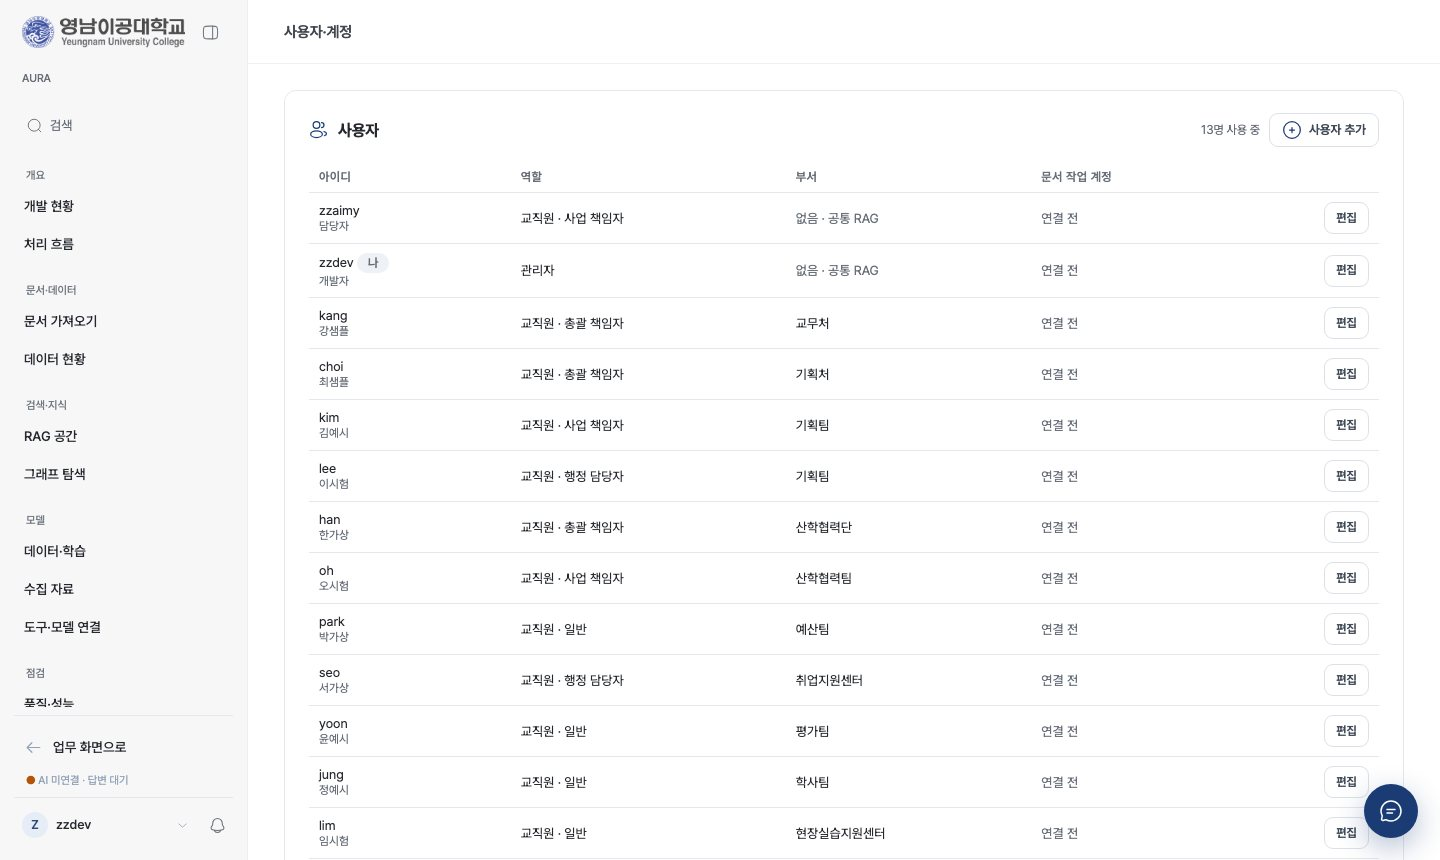
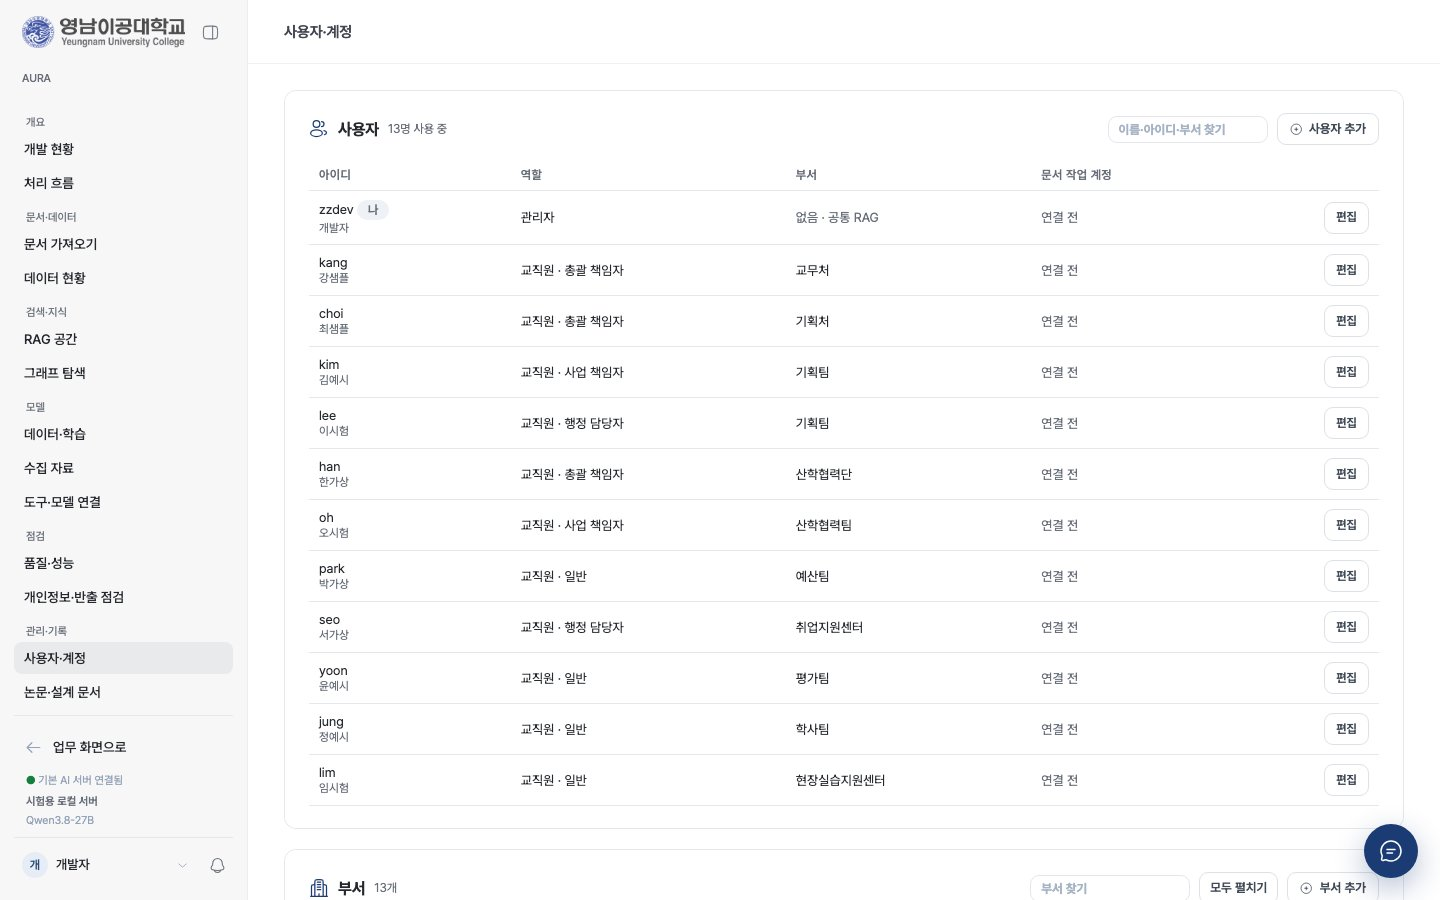
논문 검수 반영: 4장 화면 그림 캡션을 본문 자리로(기안기 문서에 2 → 30장), 3·4장 그림 자리 메모는 주석, 옛 계정 이름·서버 주소 보이던 캡처 교체(f05·08-users 다시 찍음, f02·f04·f11 → 새 그림), 지금 상태와 어긋난 서술 3곳(큰 문서·실브라우저 시연·SFT), README 상태

diff --git a/docs/paper/논문/그림-표-목록.md b/docs/paper/논문/그림-표-목록.md
@@ -44,7 +44,7 @@ docs/images/diagrams/ 의 make_diagrams.py(SVG)와 render.mjs(PNG)로 만든다.
 | [그림 2-21] | Cytoscape.js 로고 | docs/images/logos/f2-21-cytoscape-js.png (10-25, 출처: Cytoscape.js 공식 저장소(cytoscape/cytoscape.js)) |
 | [그림 2-22] | Presidio 로고 | docs/images/logos/f2-22-presidio.png (10-25, 출처: Presidio 공식 저장소(data-privacy-stack/presidio)) |
 | [그림 2-23] | 에이전트 실행 흐름 — 상태, 도구 선택, 관문, 실행, 기록 | 작성 필요: 도식 |
-| [그림 2-24] | 단계 추론과 문맥 사용량 표시 화면 | docs/images/figures-1022/f11-cot-and-context-usage.jpg (시연 화면) |
+| [그림 2-24] | 단계 추론과 문맥 사용량 표시 화면 | docs/images/figures-1025/f4-15-answer-sources-thinking.jpg (시연 화면) |
 | [그림 2-25] | 한컴 웹 한글 기안기 화면 — AURA 에이전트가 쓰는 작업본 | docs/images/figures-1025/f2-25-aura-writing-editor.jpg (10-25, 시연 문서 — AURA · 김가람 이 쓰는 중) |
 | [그림 2-26] | 칸 단위 공동 편집 구조 — 어댑터, 공동 편집 층, 서버 | docs/images/diagrams/03-hwp-coedit.png (10-24 다시 그림, make_diagrams.py) |
 | [그림 2-27] | SSE 알림 흐름 — 칸 변경 POST 와 사건 밀어 주기 | 작성 필요: 도식 |
@@ -186,11 +186,11 @@ docs/images/diagrams/ 의 make_diagrams.py(SVG)와 render.mjs(PNG)로 만든다.
 | [그림 부록-13] | 남이 쓰는 칸 표시 — 옅은 바탕, 색 커서, 이름 깃발, 같이 있는 사람 목록 | docs/images/figures-1025/g01-coedit-pane-people.jpg (10-25, [그림 4-25] 와 같은 화면) |
 | [그림 부록-14] | 칸이 없는 문서를 나중에 연 사람의 화면 — 보기 전용 | docs/images/02-hwp-edit-lock.jpg |
 | [그림 부록-15] | 규정 질문의 답 — 출처와 오른쪽 원문 대목 | docs/images/figures-1025/fA-15-regulation-answer-source.jpg (10-25, 로컬 시험 데이터) |
-| [그림 부록-16] | 「생각 과정」 을 펼친 답과 입력 칸 아래 문맥 사용량 | docs/images/figures-1022/f11-cot-and-context-usage.jpg |
+| [그림 부록-16] | 「생각 과정」 을 펼친 답과 입력 칸 아래 문맥 사용량 | docs/images/figures-1025/f4-15-answer-sources-thinking.jpg |
 | [그림 부록-17] | 설정 화면 — 프로필, 문서 편집기, 구글 계정 | docs/images/figures-1025/f4-29-settings.jpg (10-25, 로컬 시험 데이터) |
-| [그림 부록-18] | 문서 패널 — 편집기 고르기, 작업 문서, 첨부·참고·기준 문서 | docs/images/figures-1022/f04-doc-panel-work-docs.jpg |
+| [그림 부록-18] | 문서 패널 — 편집기 고르기, 작업 문서, 첨부·참고·기준 문서 | docs/images/figures-1025/f4-18-chat-document-panel.jpg |
 | [그림 부록-19] | 「파일 가져오기」 창 — 왼쪽 위치, 오른쪽 폴더·한글 파일 목록, 경로 줄 | docs/images/figures-1022/f05-file-finder.jpg |
-| [그림 부록-20] | 「편집 도구」 를 펼친 기안기 — 메뉴, 리본, 서식줄 | docs/images/figures-1022/f02-editing-tools-open.jpg |
+| [그림 부록-20] | 「편집 도구」 를 펼친 기안기 — 메뉴, 리본, 서식줄 | docs/images/figures-1025/f4-24-editor-more-menu.jpg |
 | [그림 부록-21] | 「프로젝트 공유」 창 | docs/images/figures-1025/f4-20-project-share-dialog.jpg (10-25, 로컬 시험 데이터) |
 | [그림 부록-22] | 그래프 탐색 — 사업 중심 그래프와 노드 패널 | docs/images/figures-1025/fA-22-graph-node-panel.jpg (10-25, 로컬 시험 데이터) |
 | [그림 부록-23] | 업무 도우미 창과 「실행」 제안 | docs/images/figures-1025/fA-23-helper-run-suggestion.jpg (10-25, 로컬 시험 데이터) |
@@ -232,8 +232,8 @@ docs/images/diagrams/ 의 make_diagrams.py(SVG)와 render.mjs(PNG)로 만든다.
 
 ## 다시 찍거나 다시 그릴 것
 
-- 다시 찍기: 10-22 그림 f01(대화와 기안기, 이름표가 잠금 방식 시절의 시연 표시)은 [그림 1-1] 의 01-chat-hwp-agent.jpg 로 대신했다. f02(편집 도구 펼침, [그림 2-25]·[그림 부록-20])와
-  f12(프로젝트 공유 창, [그림 4-20]·[그림 부록-21])는 10-23 이후 화면이 바뀌어 다시 찍는다.
+- 다시 찍기(10-25 끝): f02 는 [그림 2-25] 를 f2-25(AURA · 김가람 이 쓰는 시연 문서), [그림 부록-20] 을 f4-24 로, f11·f04 는 f4-15·f4-18 로 바꿨고,
+  f05(파일 가져오기)·08-users 는 시험 데이터로 다시 찍었다(옛 계정 이름·서버 주소가 보이던 것). f12 는 f4-20 으로 바뀌었다.
 - 다시 그림(10-24): docs/images/diagrams/03-hwp-coedit.png 는 문서 전체 잠금 그림이던 것을 칸 단위 공동 편집(어댑터·공동 편집 층·서버, 칸 임대, SSE, AURA 참여자,
   hwpx 써 넣기)으로, 04-model-pipeline.png 는 「비교 평가(진행 중)」이던 것을 SFT v1 비교 결과(채택하지 않음)와 Writer v2 데이터 계획으로 고쳤다.
 - 작성 필요(도식): [그림 2-4]·[그림 2-5]·[그림 2-11]·[그림 2-13]·[그림 2-17]·[그림 2-19]·[그림 2-23]·[그림 2-27]. 같은 make_diagrams.py 꼴로 그리면 글꼴과 색이 맞는다.

diff --git a/docs/paper/논문/부록-사용-설명서.md b/docs/paper/논문/부록-사용-설명서.md
@@ -8,7 +8,7 @@
 
 - 화면 이름과 단추 이름은 화면에 적힌 그대로 「」 로 묶는다. 예: 「새 채팅」, 「파일 가져오기」.
 - 화면을 찾아가는 길은 「사이드바 → 문서함 → 공통 → 공통 양식」 처럼 화살표로 잇는다. 괄호 안의 주소(/hwp 등)는 브라우저 주소창에 보이는 경로다.
-- 그림 자리는 「[그림 부록-n] 설명 (캡처 필요: 주소 경로)」 로 적었다. 이미 찍어 둔 그림이 있으면 파일 이름을 함께 적었다.
+- 화면 그림은 시험 계정·지어낸 자료로 찍었다(실제 학교 문서·개인 정보 없음).
 - 「참고:」 로 시작하는 줄은 알아 두면 편한 점이다.
 - [n] 은 본문 99 참고 문헌의 번호다. 부록은 화면 사용법만 다루며 기술 설명은 2~4 장을 본다.
 - 화면의 예시 이름(부서·사람·사업)은 모두 시험 환경의 가상 값이다.
@@ -316,7 +316,7 @@ AURA 가 쓰는 글은 사람이 검토하는 초안이다. 숫자와 최종 판
 
 [그림 부록-15] 규정 질문의 답 — 출처와 오른쪽 원문 대목 (그림 docs/images/figures-1025/fA-15-regulation-answer-source.jpg)
 
-[그림 부록-16] 「생각 과정」 을 펼친 답과 입력 칸 아래 문맥 사용량 (그림 docs/images/figures-1022/f11-cot-and-context-usage.jpg)
+[그림 부록-16] 「생각 과정」 을 펼친 답과 입력 칸 아래 문맥 사용량 (그림 docs/images/figures-1025/f4-15-answer-sources-thinking.jpg)
 
 답 안의 숫자 뒤에 「(근거 확인 필요)」 가 붙어 있으면 그 숫자가 건넨 근거에 없다는 뜻이다. 원문에서 꼭 확인한다.
 
@@ -403,7 +403,7 @@ AURA 가 쓰는 글은 사람이 검토하는 초안이다. 숫자와 최종 판
 4. 문서를 더 넣으려면 「파일 가져오기」 를 누른다. 파인더 모양의 창에서 왼쪽 위치(부서 폴더·내 드라이브·공유 드라이브)를 고르고, 오른쪽 목록에서 파일을 골라 「열기」 를 누른다.
 5. 아래에는 「첨부 문서」·「참고 문서」·「기준 문서」 묶음이 있다.
 
-[그림 부록-18] 문서 패널 — 편집기 고르기, 작업 문서, 첨부·참고·기준 문서 (그림 docs/images/figures-1022/f04-doc-panel-work-docs.jpg)
+[그림 부록-18] 문서 패널 — 편집기 고르기, 작업 문서, 첨부·참고·기준 문서 (그림 docs/images/figures-1025/f4-18-chat-document-panel.jpg)
 
 [그림 부록-19] 「파일 가져오기」 창 — 왼쪽 위치, 오른쪽 폴더·한글 파일 목록, 경로 줄 (그림 docs/images/figures-1022/f05-file-finder.jpg)
 
@@ -480,7 +480,7 @@ AURA 가 쓰는 글은 사람이 검토하는 초안이다. 숫자와 최종 판
 
 웹 한글 기안기는 브라우저에서 한글 문서를 여는 한컴 편집기다[51]. 문서함에서 문서를 누르거나 채팅 문서 패널의 「한글」 쪽에서 연다.
 
-[그림 부록-20] 「편집 도구」 를 펼친 기안기 — 메뉴, 리본, 서식줄 (그림 docs/images/figures-1022/f02-editing-tools-open.jpg)
+[그림 부록-20] 「편집 도구」 를 펼친 기안기 — 메뉴, 리본, 서식줄 (그림 docs/images/figures-1025/f4-24-editor-more-menu.jpg)
 
 | 자리 | 단추·표시 | 하는 일 |
 |---|---|---|

diff --git a/docs/paper/논문/03-환경-설계.md b/docs/paper/논문/03-환경-설계.md
@@ -381,6 +381,8 @@ documents/
 3. 관리자는 「사용자·계정」(/dev/users)에서 사용자를 추가하고 「＋ 겸직 부서 더하기」나 「추가 권한 — 등급과 따로 이 사람에게만」으로 예외를 준다.
 4. 설정이 맞는지는 사이드바 아래 「테스트 보기」로 그 계정의 화면과 검색 범위를 그대로 보며 확인한다(4.10.2 참고).
 
+[그림 3-6] 조직도 탭 — 처·단 카드와 팀·센터 줄 (그림 docs/images/06-org-chart.jpg)
+
 > 참고: 사업별 책임자 지정은 「사업 관리」(/programs/admin)의 줄 메뉴 「편집」 › 「지정」에서 「총괄 책임자」·「사업 책임자」·「행정 담당자」를 고른다.
 > 지정은 그 사업에 이어진 프로젝트의 진행 현황을 볼 권한으로 이어진다.
 
@@ -471,10 +473,12 @@ MTP 추측 디코딩은 모델 안에 든 다음 토큰 예측 층[14]이 토큰
 만들고 승인하며 원문은 학습 장비 밖으로 나가지 않는다. 운영 서버의 학습 화면에는 이름·상태·건수·지문·승인 범위만 담은
 목록이 1 분마다 들어온다. 이 절차를 처음 실제로 돌린 결과는 4.11 절과 5.4.5 절에 있다.
 
-## 그림 자리
+<!-- 원고 메모(논문에 넣지 않음) — 그림 자리
 
 이 장의 그림 가운데 다이어그램은 본문의 글 상자로 넣었고, 다음 그림은 원본 이미지로 바꿔 넣을 수 있다. 장비 구성도는 [그림 1-2](docs/images/diagrams/01-system.png)를
 다시 쓴다. 개발 현황·RAG 공간·「테스트 보기」·「단계별 모델」 화면은 4 장의 [그림 4-32]·[그림 4-7]·[그림 4-34]·[그림 4-33] 을 가리킨다.
 
 - [그림 3-2] 구축 흐름 (기존 그림: docs/images/diagrams/02-doc-flow.png 가 반입부터 결과까지를 한 줄로 요약한다. 본문 그림을 기준으로 다시 그릴 자리)
 - [그림 3-6] 조직도 탭 — 처·단 카드와 팀·센터 줄 (캡처 있음: docs/images/06-org-chart.jpg, 10-24 시험 환경)
+
+-->
